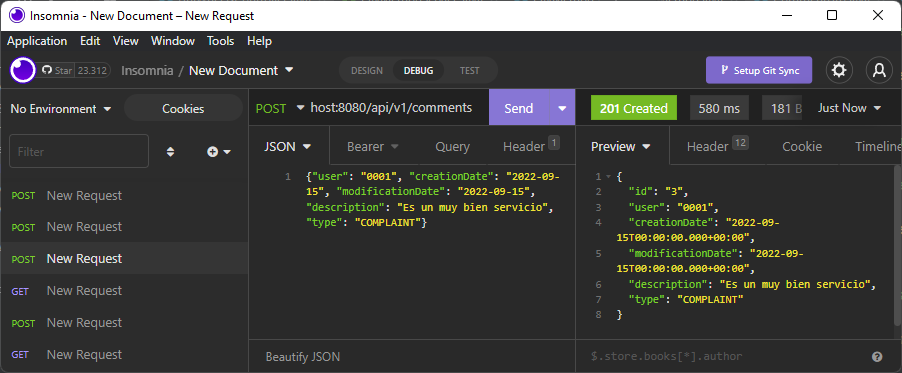
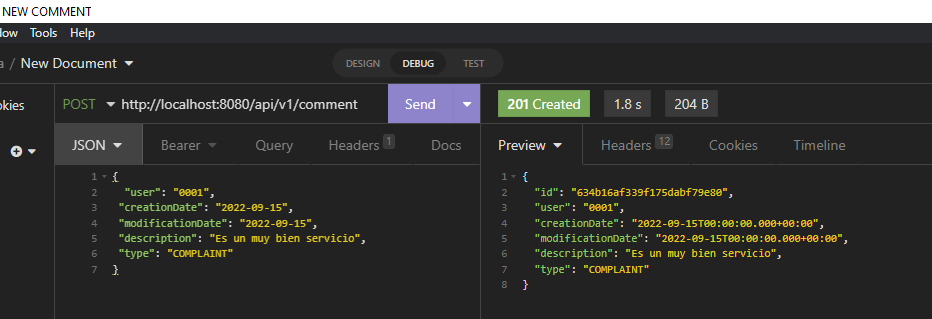
ISSUE 1: Comments Controller OK. FINAL FIX ISSUE 1.

diff --git a/src/main/java/com/PoolWheels/controller/CommentController.java b/src/main/java/com/PoolWheels/controller/CommentController.java
@@ -1,0 +1,144 @@
+package com.PoolWheels.controller;
+
+
+import com.PoolWheels.dto.CommentDto;
+import com.PoolWheels.entities.Comment;
+import com.PoolWheels.service.CommentService;
+import org.modelmapper.ModelMapper;
+import org.springframework.beans.factory.annotation.Autowired;
+import org.springframework.http.HttpStatus;
+import org.springframework.http.ResponseEntity;
+import org.springframework.web.bind.annotation.*;
+
+import java.util.ArrayList;
+import java.util.List;
+
+@RestController
+@RequestMapping( "/api/v1/comment" )
+public class CommentController {
+
+    @Autowired
+    private final CommentService commentService;
+
+    ModelMapper modelMapper = new ModelMapper();
+
+    /**
+     * It is the User Controller class constructor
+     *
+     * @param commentService The Users service
+     */
+    public CommentController(CommentService commentService) {
+        this.commentService = commentService;
+    }
+
+    /* Comments services */
+
+    /**
+     * It gets all the comments from the database and returns them as a list of CommentDto objects
+     *
+     * @return A list of comments
+     */
+    @GetMapping
+    public ResponseEntity<List<CommentDto>> getAllComments () {
+        try {
+            List<Comment> commentList = commentService.getAll();
+            ArrayList<CommentDto> data = new ArrayList<CommentDto>();
+            if (!commentList.isEmpty()) {
+                for (Comment c : commentList) {
+                    data.add(modelMapper.map(c, CommentDto.class));
+                }
+            }
+            return new ResponseEntity<List<CommentDto>> (data, HttpStatus.OK);
+        } catch (Exception e) {
+            e.printStackTrace();
+            return new ResponseEntity<List<CommentDto>> (HttpStatus.INTERNAL_SERVER_ERROR);
+        }
+    }
+
+    /**
+     * It returns a CommentDto object if the comment exists, or a 404 if it doesn't, or a 500 if something goes wrong
+     *
+     * @param id The id of the comment to be retrieved.
+     * @return A comment with the given id.
+     */
+    @GetMapping("/{id}")
+    public ResponseEntity<CommentDto> getCommentById(@PathVariable String id) {
+        try {
+            Comment commentTemp = commentService.findById(id);
+            if (commentTemp != null) {
+                return new ResponseEntity<CommentDto>(modelMapper.map(commentTemp, CommentDto.class), HttpStatus.OK);
+            } else {
+                return new ResponseEntity<CommentDto>(HttpStatus.NOT_FOUND);
+            }
+        } catch (Exception e) {
+            e.printStackTrace();
+            return new ResponseEntity<CommentDto>(HttpStatus.INTERNAL_SERVER_ERROR);
+        }
+    }
+
+    /**
+     * It takes a CommentDto object as a parameter, converts it to a Comment object, and then passes it to the create()
+     * function in the CommentService class
+     *
+     * @param newCommentDto The new comment that we want to create.
+     * @return A new comment is being returned.
+     */
+    @PostMapping
+    public ResponseEntity<CommentDto> createNewComment (@RequestBody CommentDto newCommentDto) {
+        try {
+            Comment commentTemp = commentService.create(modelMapper.map(newCommentDto, Comment.class));
+            if (commentTemp != null) {
+                return new ResponseEntity<CommentDto>(modelMapper.map(commentTemp, CommentDto.class), HttpStatus.CREATED);
+            } else {
+                return new ResponseEntity<CommentDto>(HttpStatus.NOT_FOUND);
+            }
+        } catch (Exception e) {
+            e.printStackTrace();
+            return new ResponseEntity<CommentDto>(HttpStatus.INTERNAL_SERVER_ERROR);
+        }
+    }
+
+    /**
+     * It updates a comment with the given id.
+     *
+     * @param commentDto The object that will be updated.
+     * @param id The id of the comment to be updated.
+     * @return A ResponseEntity object is being returned.
+     */
+    @PutMapping("/{id}")
+    public ResponseEntity<CommentDto> updateComment (@RequestBody CommentDto commentDto, @PathVariable String id) {
+        try {
+            Comment commentTemp = commentService.update(modelMapper.map(commentDto, Comment.class), id);
+            if (commentTemp != null) {
+                return new ResponseEntity<CommentDto>(modelMapper.map(commentTemp, CommentDto.class), HttpStatus.OK);
+            } else {
+                return new ResponseEntity<CommentDto>(HttpStatus.NOT_FOUND);
+            }
+        } catch (Exception e) {
+            e.printStackTrace();
+            return new ResponseEntity<CommentDto>(HttpStatus.INTERNAL_SERVER_ERROR);
+        }
+    }
+
+    /**
+     * It deletes a comment by id.
+     *
+     * @param id The id of the comment to be deleted
+     * @return A boolean value is being returned.
+     */
+    @DeleteMapping("/{id}")
+    public ResponseEntity<Boolean> deleteComment (@PathVariable String id) {
+        try {
+            boolean deleted = commentService.deleteById(id);
+            if (deleted) {
+                return new ResponseEntity<Boolean>(true, HttpStatus.OK);
+            } else {
+                return new ResponseEntity<Boolean>(false, HttpStatus.NOT_FOUND);
+            }
+        } catch (Exception e) {
+            e.printStackTrace();
+            return new ResponseEntity<Boolean>(HttpStatus.INTERNAL_SERVER_ERROR);
+        }
+    }
+
+}

diff --git a/README.md b/README.md
@@ -206,10 +206,35 @@ Remember to add the token obtained in the request.
 
    **Url**: http://localhost:8080/api/paymethod
 
-  ![getPayMethods](img/getAllPayMethods.png)
+![getPayMethods](img/getAllPayMethods.png)
 
+### Control with comment services:
 
+**Endpoint:** /api/v1/comment/{...}
 
+1. Add a new comment:
+
+   **Type**: POST
+
+   **Url**: http://localhost:8080/api/comment
+
+![getPayMethods](img/createComment.png)
+
+2. Update a comment:
+
+   **Type**: PUT
+
+   **Url**: http://localhost:8080/api/comment/634b16af339f175dabf79e80
+
+![updateComment](img/updateComment.png)
+
+3. Get the comments:
+
+   **Type**: GET
+
+   **Url**: http://localhost:8080/api/v1/comment
+
+![getComments](img/getAllComments.png)
 
 ## Built With
 
